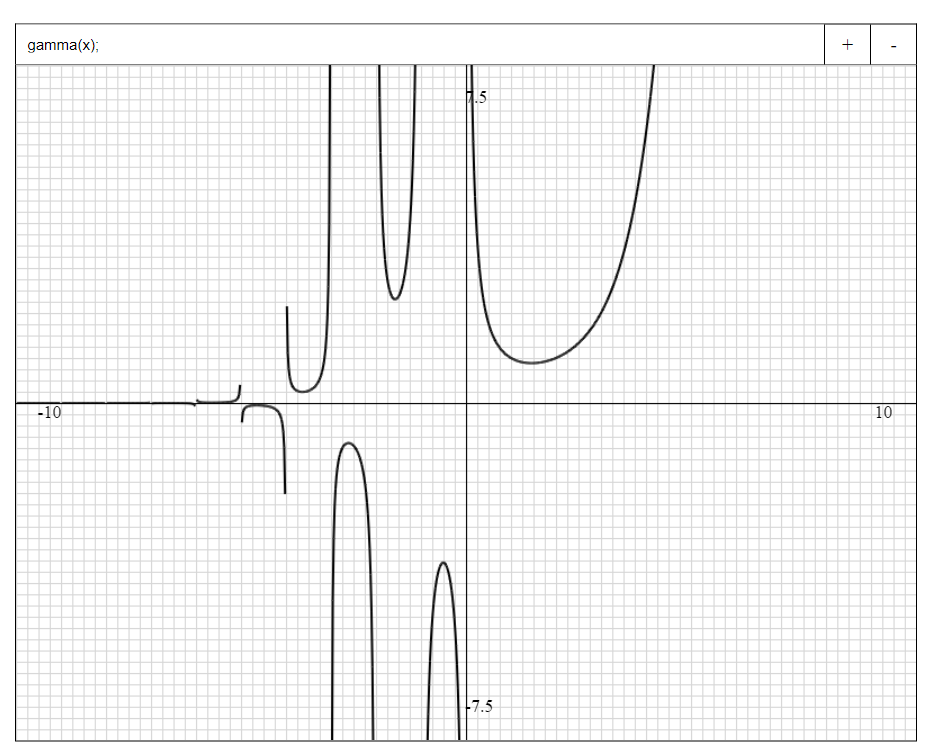
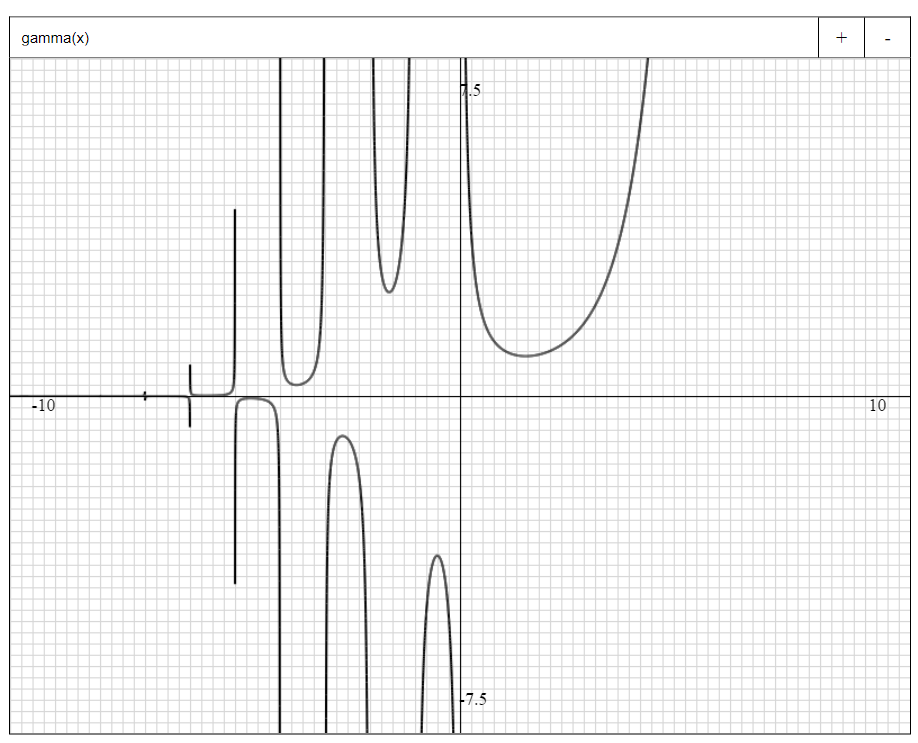
gamma(x): 1,000 -> 10,000 intervals

Changed region(s): [[0.0, 0.0, 1.0, 0.9906]]

diff --git a/js/grapher.js b/js/grapher.js
@@ -20,7 +20,7 @@ class Grapher {
         this.box_size = 10
         this.x_range = { min: -10, max: 10 }
         this.y_range = { min: -7.5, max: 7.5 }
-        this.function_intervals = 1000
+        this.function_intervals = 10000
         this.field_intervals = 20
         this.slope_intervals = { x: this.width / this.field_intervals, y: this.height / this.field_intervals }
         this.vector_intervals = { x: this.width / this.field_intervals, y: this.height / this.field_intervals }

diff --git a/js/main.js b/js/main.js
@@ -4,5 +4,5 @@ document.addEventListener("DOMContentLoaded", () => {
         height: 600,
         width: 800
     })
-    graph_1.setInput("sin(x)")
+    graph_1.setInput("gamma(x)")
 })

diff --git a/README.md b/README.md
@@ -64,7 +64,7 @@ For this demo, I've graphed the beautiful [butterfly curve](https://en.wikipedia
 <img src = "https://raw.githubusercontent.com/rohanphanse/grapher/main/images/butterfly.png" width = "75%" alt = "Function Demo" />
 </p>
 
-Bonus: [Gamma](https://en.wikipedia.org/wiki/Gamma_function) function, the continuation of the factorial function to decimal and complex numbers. 
+Bonus: [Gamma](https://en.wikipedia.org/wiki/Gamma_function) function, the continuation of the factorial function to decimal and complex numbers (graphed with 10,000 intervals). 
 
 <p align="center">
 <img src = "https://raw.githubusercontent.com/rohanphanse/grapher/main/images/gamma.png" width = "75%" alt = "Vector Field Demo" style = "margin: 0 auto" />
